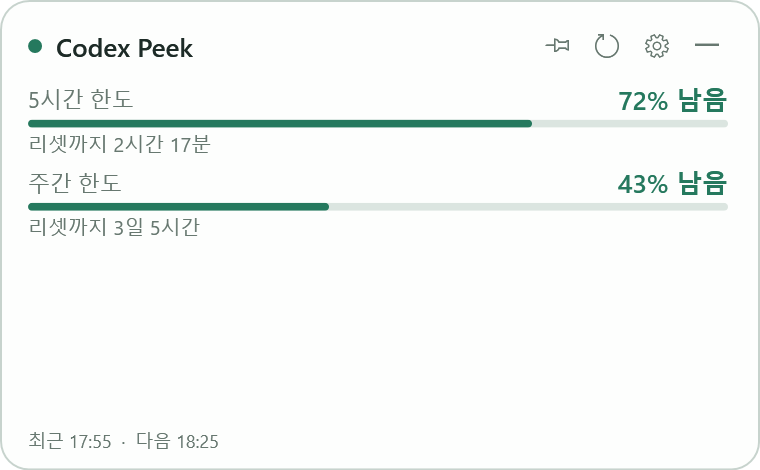
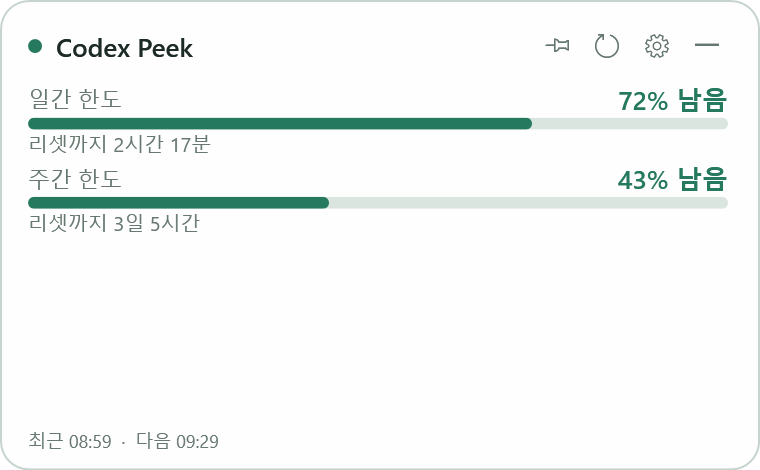
Keep quota bars visible in compact widget layout

diff --git a/src/App.cs b/src/App.cs
@@ -62,6 +62,7 @@ public sealed class WidgetWindow : Window
     private readonly Border surface;
     private readonly StackPanel rows = new();
     private readonly TextBlock footer;
+    private readonly RowDefinition footerRow = new() { Height = new GridLength(20) };
     private readonly TextBlock state;
     private readonly Button refreshButton;
     private readonly Button pinButton;
@@ -95,7 +96,7 @@ public sealed class WidgetWindow : Window
         var layout = new Grid(); surface.Child = layout;
         layout.RowDefinitions.Add(new RowDefinition { Height = new GridLength(26) });
         layout.RowDefinitions.Add(new RowDefinition { Height = new GridLength(1, GridUnitType.Star) });
-        layout.RowDefinitions.Add(new RowDefinition { Height = new GridLength(20) });
+        layout.RowDefinitions.Add(footerRow);
 
         var header = new Grid { Background = Brushes.Transparent };
         header.ColumnDefinitions.Add(new ColumnDefinition()); header.ColumnDefinitions.Add(new ColumnDefinition { Width = GridLength.Auto });
@@ -187,7 +188,7 @@ public sealed class WidgetWindow : Window
     private async Task RefreshAsync()
     {
         if (busy || closed) return;
-        busy = true; refreshButton.IsEnabled = false; footer.Text = "최신 사용량을 조회하고 있습니다…";
+        busy = true; refreshButton.IsEnabled = false; footer.Text = "최신 사용량을 조회하고 있습니다…"; UpdateFooterVisibility();
         try
         {
             snapshot = await client.ReadAsync(settings.CodexPath, lifetime.Token);
@@ -213,29 +214,43 @@ public sealed class WidgetWindow : Window
         if (data.Windows.Count == 0) { state.Text = "계정에서 표시 가능한 한도 정보를 제공하지 않았습니다."; rows.Children.Add(state); }
         foreach (var w in data.Windows)
         {
-            var box = new Grid { Margin = new Thickness(0, compactMode ? 0 : 1, 2, compactMode ? 0 : 3) };
+            var box = new Grid { Margin = new Thickness(0, compactMode ? 6 : 1, 2, compactMode ? 6 : 1) };
             box.RowDefinitions.Add(new RowDefinition { Height = GridLength.Auto });
-            box.RowDefinitions.Add(new RowDefinition { Height = new GridLength(compactMode ? 0 : 7) });
+            box.RowDefinitions.Add(new RowDefinition { Height = new GridLength(compactMode ? 10 : 7) });
             box.RowDefinitions.Add(new RowDefinition { Height = GridLength.Auto });
-            var title = new Grid(); title.ColumnDefinitions.Add(new ColumnDefinition()); title.ColumnDefinitions.Add(new ColumnDefinition { Width = GridLength.Auto });
+            var title = new Grid { Name = "QuotaHeading", Visibility = compactMode ? Visibility.Collapsed : Visibility.Visible };
+            title.ColumnDefinitions.Add(new ColumnDefinition()); title.ColumnDefinitions.Add(new ColumnDefinition { Width = GridLength.Auto });
             var name = Label(w.Name, 11, Muted); name.TextTrimming = TextTrimming.CharacterEllipsis; name.ToolTip = w.Name;
             var number = Label($"{w.Remaining:0.#}% 남음", 13, w.Remaining <= 10 ? Color.FromRgb(185, 78, 55) : Green, FontWeights.SemiBold);
             number.Margin = new Thickness(6, 0, 0, 0); Grid.SetColumn(number, 1); title.Children.Add(name); title.Children.Add(number); box.Children.Add(title);
-            var track = new Grid { Height = 4, VerticalAlignment = VerticalAlignment.Center, ClipToBounds = true, Visibility = compactMode ? Visibility.Collapsed : Visibility.Visible };
-            track.Children.Add(new Border { Background = new SolidColorBrush(Color.FromArgb(50, 82, 127, 106)), CornerRadius = new CornerRadius(2) });
-            var fill = new Border { Background = new SolidColorBrush(w.Remaining <= 10 ? Color.FromRgb(185, 78, 55) : Green), CornerRadius = new CornerRadius(2), HorizontalAlignment = HorizontalAlignment.Left };
+            // Keep every quota bar visible at all supported window sizes.
+            var track = new Grid { Name = "QuotaBar", Height = 6, VerticalAlignment = VerticalAlignment.Center, ClipToBounds = true, Background = Brushes.Transparent };
+            System.Windows.Automation.AutomationProperties.SetName(track, $"{w.Name}, {w.Remaining:0.#}% 남음");
+            track.ToolTip = "";
+            track.ToolTipOpening += (_, _) => track.ToolTip = $"{w.Name} · {w.Remaining:0.#}% 남음\n{w.ResetText(DateTimeOffset.Now)}\n최근 갱신 {data.FetchedAt:MM/dd HH:mm}";
+            track.Children.Add(new Border { Background = new SolidColorBrush(Color.FromArgb(50, 82, 127, 106)), CornerRadius = new CornerRadius(3) });
+            var fill = new Border { Background = new SolidColorBrush(w.Remaining <= 10 ? Color.FromRgb(185, 78, 55) : Green), CornerRadius = new CornerRadius(3), HorizontalAlignment = HorizontalAlignment.Left };
             track.SizeChanged += (_, _) => fill.Width = track.ActualWidth * w.Remaining / 100;
             track.Children.Add(fill); Grid.SetRow(track, 1); box.Children.Add(track);
-            var reset = Label(w.ResetText(DateTimeOffset.Now), compactMode ? 9 : 10, Muted);
+            var reset = Label(w.ResetText(DateTimeOffset.Now), 10, Muted);
+            reset.Name = "QuotaReset"; reset.Visibility = compactMode ? Visibility.Collapsed : Visibility.Visible;
             reset.TextTrimming = TextTrimming.CharacterEllipsis;
             if (w.ResetAt is long epoch) { try { reset.ToolTip = DateTimeOffset.FromUnixTimeSeconds(epoch).ToLocalTime().ToString("yyyy-MM-dd ddd HH:mm"); } catch { } }
             Grid.SetRow(reset, 2); box.Children.Add(reset); resetLabels.Add((w, reset)); rows.Children.Add(box);
         }
         if (!hadError) footer.ToolTip = null;
+        UpdateFooterVisibility();
+    }
+    private void UpdateFooterVisibility()
+    {
+        bool show = !compactMode || hadError || busy;
+        footer.Visibility = show ? Visibility.Visible : Visibility.Collapsed;
+        footerRow.Height = new GridLength(show ? 20 : 0);
     }
     private void UpdateTimeLabels()
     {
         var now = DateTimeOffset.Now;
+        UpdateFooterVisibility();
         foreach (var (w, text) in resetLabels) text.Text = w.ResetText(now);
         if (busy) return;
         if (hadError)
@@ -296,7 +311,7 @@ public sealed class WidgetWindow : Window
     {
         Directory.CreateDirectory(folder);
         var now = DateTimeOffset.Now;
-        snapshot = new UsageSnapshot(new List<LimitWindow> { new("5시간 한도", 28, now.AddHours(2).AddMinutes(18).ToUnixTimeSeconds()), new("주간 한도", 57, now.AddDays(3).AddHours(6).ToUnixTimeSeconds()) }, "demo", now);
+        snapshot = new UsageSnapshot(new List<LimitWindow> { new("일간 한도", 28, now.AddHours(2).AddMinutes(18).ToUnixTimeSeconds()), new("주간 한도", 57, now.AddDays(3).AddHours(6).ToUnixTimeSeconds()) }, "demo", now);
         schedule.Succeeded(now); RenderSnapshot(snapshot); UpdateTimeLabels();
         async Task Capture(string name, double width, double height)
         {
@@ -306,14 +321,38 @@ public sealed class WidgetWindow : Window
             bitmap.Render((Visual)Content); var encoder = new PngBitmapEncoder(); encoder.Frames.Add(BitmapFrame.Create(bitmap));
             using var stream = File.Create(System.IO.Path.Combine(folder, name + ".png")); encoder.Save(stream);
         }
+        void CheckQuotaLayout(bool compact)
+        {
+            foreach (var box in rows.Children.OfType<Grid>())
+            {
+                var bar = box.Children.OfType<Grid>().Single(g => g.Name == "QuotaBar");
+                var heading = box.Children.OfType<Grid>().Single(g => g.Name == "QuotaHeading");
+                var reset = box.Children.OfType<TextBlock>().Single(t => t.Name == "QuotaReset");
+                if (!bar.IsVisible || bar.ActualHeight < 4 || bar.ActualWidth <= 0) throw new Exception("Quota bar disappeared");
+                if (heading.IsVisible == compact || reset.IsVisible == compact) throw new Exception("Incorrect responsive quota labels");
+                var bounds = bar.TranslatePoint(new Point(0, 0), rows);
+                var viewport = (ScrollViewer)rows.Parent;
+                if (viewport.ScrollableHeight > 0.5) throw new Exception("Two quota rows should fit without scrolling");
+                if (bounds.Y + bar.ActualHeight > viewport.ViewportHeight) throw new Exception("Quota bar clipped by viewport");
+            }
+            if (footer.IsVisible == compact) throw new Exception("Incorrect compact footer");
+        }
         await Capture("default-demo", 270, 160);
+        CheckQuotaLayout(false);
         await Capture("minimum-demo", 220, 130);
+        CheckQuotaLayout(true);
+        await Capture("threshold-compact-demo", 270, 149);
+        CheckQuotaLayout(true);
+        await Capture("threshold-full-demo", 270, 150);
+        CheckQuotaLayout(false);
+        await Capture("restored-demo", 270, 160);
+        CheckQuotaLayout(false);
         TogglePin(); if (!Topmost) throw new Exception("Pin did not enable Topmost");
         TogglePin(); if (Topmost) throw new Exception("Pin did not disable Topmost");
         ApplyTransparency(80);
         if (((SolidColorBrush)surface.Background).Color.A != 51) throw new Exception("Opacity mismatch");
         await Capture("expanded-transparent-demo", 380, 235);
-        File.WriteAllText(System.IO.Path.Combine(folder, "ui-check.json"), "{\"pinToggle\":true,\"transparency80\":true,\"sizesRendered\":3}");
+        File.WriteAllText(System.IO.Path.Combine(folder, "ui-check.json"), "{\"pinToggle\":true,\"transparency80\":true,\"sizesRendered\":6,\"quotaBarsAlwaysVisible\":true,\"responsiveLabels\":true}");
         Close();
     }
     [StructLayout(LayoutKind.Sequential)] private struct RECT { public int Left, Top, Right, Bottom; }

diff --git a/README.md b/README.md
@@ -1,4 +1,4 @@
-# Codex Peek
+# Codex Peek
 
 **Codex 구독의 잔여 사용 한도와 리셋 시간을 보여주는 Windows 데스크톱 위젯입니다.**
 
@@ -16,13 +16,17 @@
 | 자동 업데이트 | 기본 30분, 1~1,440분 범위에서 1분 단위 설정 |
 | 즉시 새로고침 | 새로고침 버튼 또는 F5로 조회하고 응답을 받는 즉시 화면 반영 |
 | 창 크기 변경 | 창 가장자리와 모서리를 드래그해 크기 조절 |
-| 작은 화면 대응 | 높이를 줄이면 사용량 막대를 생략하고 잔여 비율과 리셋 시간 우선 표시 |
+| 작은 화면 대응 | 기본 크기에서는 한도명·잔여 비율·막대·리셋 시간, 높이 150 미만에서는 막대만 표시 |
 | 최상단 고정 | 핀 버튼으로 다른 일반 창 위에 고정하거나 해제 |
 | 투명도 조절 | 배경 투명도를 바꾸면서 글자와 버튼의 가독성 유지 |
 | 시스템 트레이 | 위젯 숨기기, 다시 표시, 새로고침, 설정, 종료 |
 | 설정 복원 | 크기·위치·핀 상태·투명도·갱신 간격을 재실행 시 복원 |
 | 시작 프로그램 | 설정에서 Windows 시작 시 실행을 선택 |
 | 실패 상태 표시 | 조회 실패 시 이전 데이터와 마지막 성공 시각을 유지 |
+
+기본 크기에서는 `주간 한도`, `일간 한도`, `5시간 한도` 등 실제 한도명이 표시됩니다. 높이를 150 미만으로 줄이면 한도명·비율·리셋 시간·일반 갱신 안내를 숨기고 그래프 바를 유지합니다. 작은 화면에서도 바에 마우스를 올리면 한도명, 잔여 비율, 리셋 시간, 최근 갱신 시각을 확인할 수 있습니다. 조회 중이거나 갱신에 실패하면 상태 안내는 계속 표시합니다.
+
+![높이를 줄인 화면 — 그래프 바 유지](artifacts/minimum-demo.png)
 
 한도 기간은 고정하지 않습니다. 예를 들어 계정에서 주간 한도만 제공하면 주간 한도만 표시하며, 여러 한도를 제공하면 각 항목을 표시합니다. 표시 공간이 부족하면 스크롤할 수 있습니다.
 
@@ -122,6 +126,8 @@ codexPeek/
 
 실제 데스크톱에서의 최종 클릭·드래그 조작 검증은 당시 중단되어 완료하지 못했습니다. 렌더링 검사와 자동 검사 결과가 모든 Windows 환경의 동작을 보장하지는 않습니다.
 
+2026-09-23 UI 수정 후에는 기본 크기, 최소 크기, 높이 149/150의 전환 경계, 크기 복원, 확장 크기를 렌더링했습니다. 두 한도의 바가 유지되고 스크롤 없이 표시되는지, 축소 시 글자가 숨겨지고 확대 시 복원되는지 추가 확인했습니다.
+
 자동 검사만 실행하려면:
 
 ```powershell
@@ -138,6 +144,7 @@ dotnet run --project .\tests\CodexPeek.Tests.csproj -c Release
 | 2026-09-22 | 프로젝트 이름을 Codex Peek로 정하고 WPF 앱 구현. 실제 계정 조회 및 자동 검사 17개 통과 |
 | 2026-09-22 | 최소 크기에서 정보가 잘리지 않도록 작은 화면 배치 개선. 실행 파일과 로컬 바로가기 생성 |
 | 2026-09-23 | GitHub 최초 등록을 위한 소스 정리. README에 기능, 실행 방법, 검증 범위, 개발 히스토리 작성 |
+| 2026-09-23 | 작은 창에서 그래프 바가 사라지던 동작 수정. 기본 크기에서는 한도명과 상세 정보, 축소 시에는 그래프 바를 표시하고 툴팁으로 세부 정보 제공 |
 
 ## 향후 확장 후보
 
